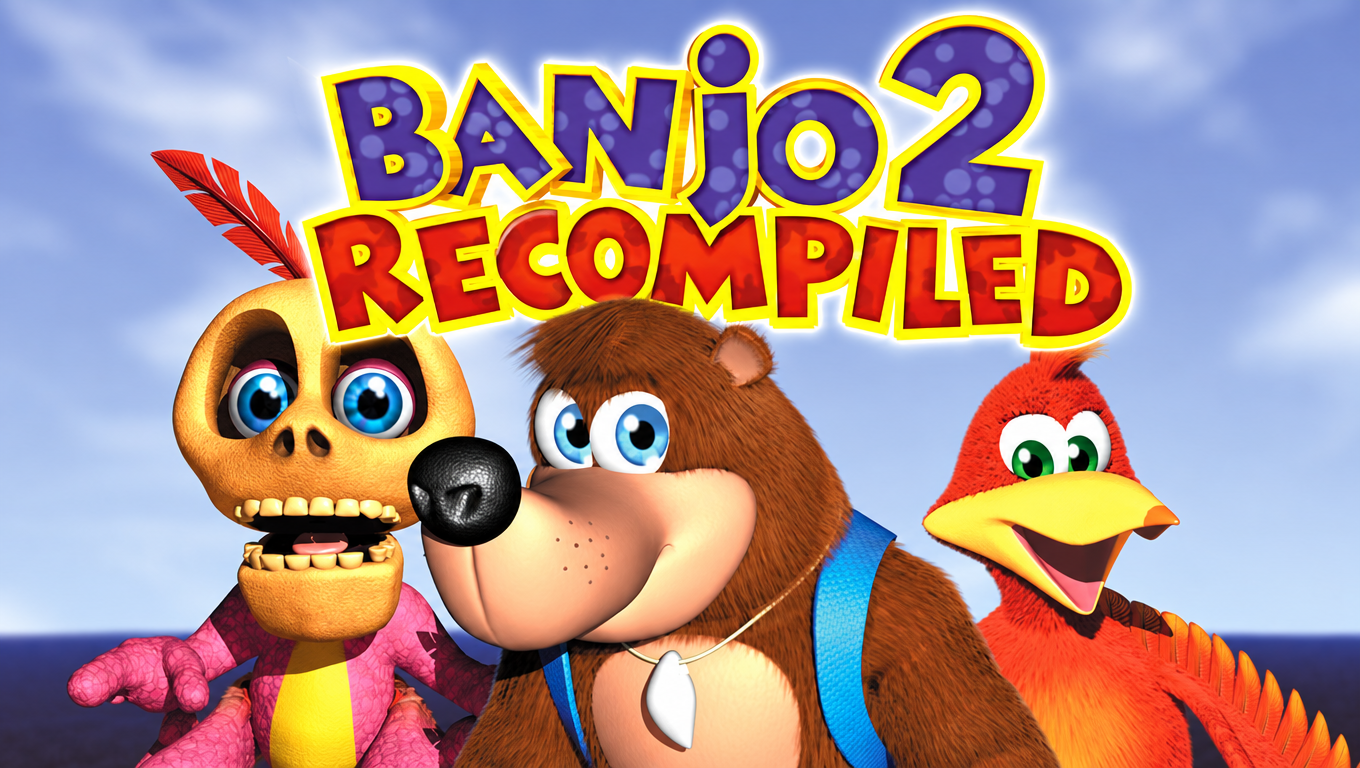
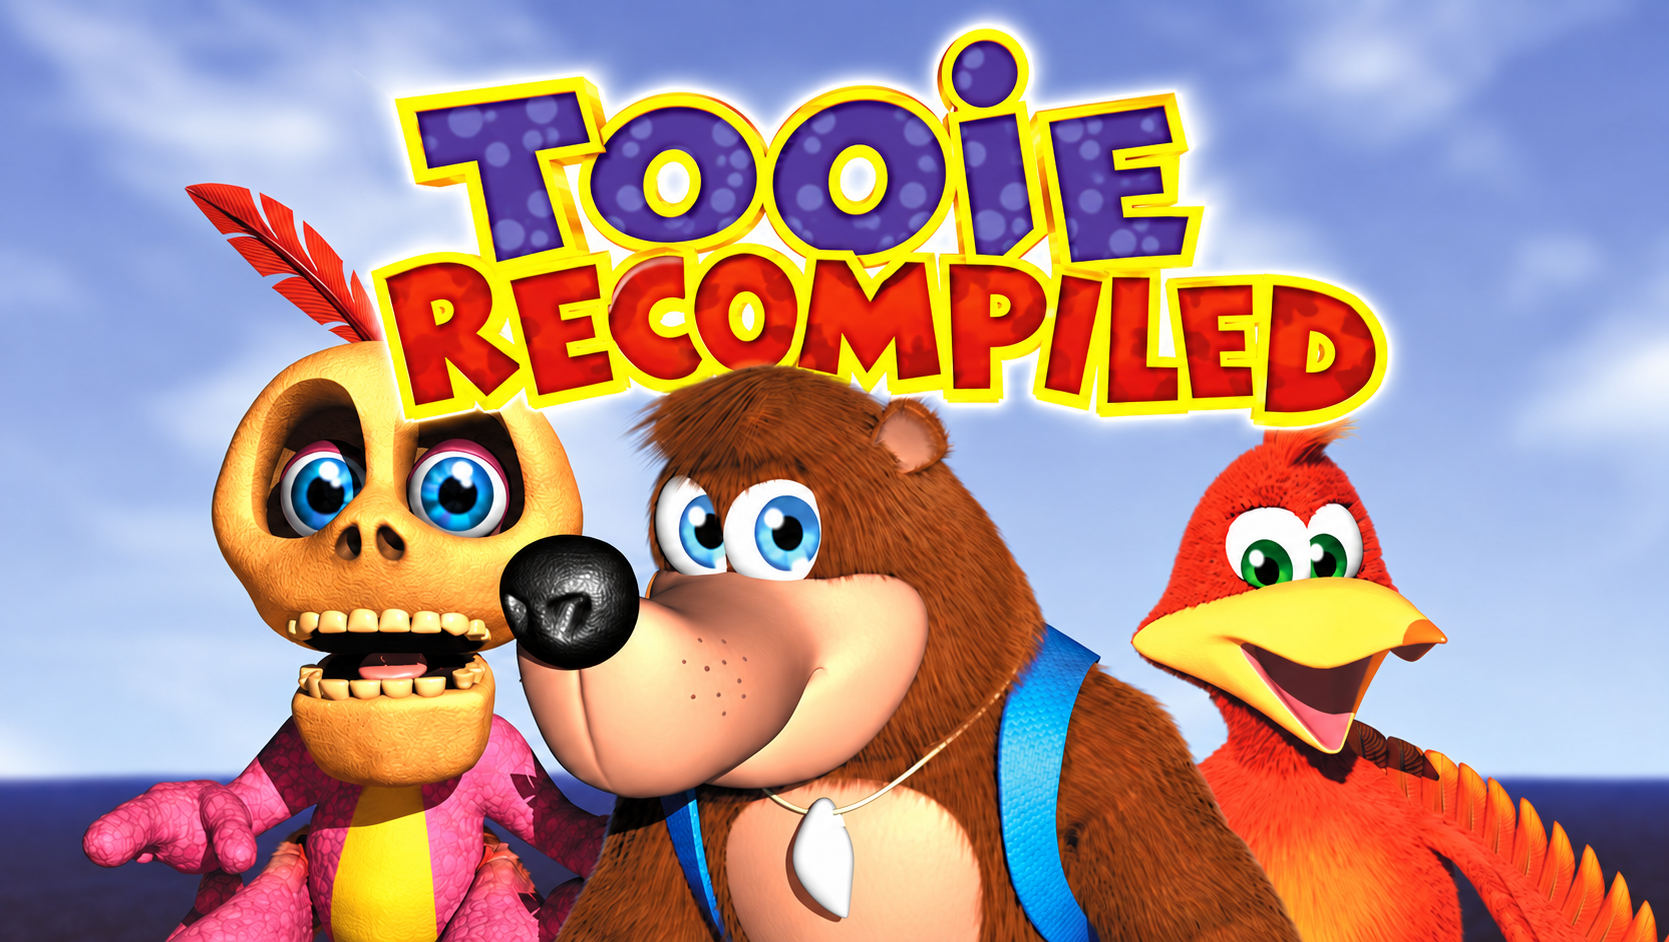
Replace launcher Banjo 2 title with Tooie artwork
Keep the blue/purple spotted lettering and gold outline above the red Recompiled line. Update matching desktop and Android packaged wallpaper assets, and record the generation prompt and integration notes.

diff --git a/docs/launcher-title-artwork-2026-10-15.md b/docs/launcher-title-artwork-2026-10-15.md
@@ -1,0 +1,22 @@
+# TOOIE launcher title artwork
+
+The upper blue/purple title now reads **TOOIE**. The red **RECOMPILED** line remains below it, with the same lettering style and colour scheme. This uses the built-in image-editing tool with the original launcher wallpaper as its reference.
+
+Updated assets:
+
+- `assets/menu.png` (desktop / native build assets)
+- `android/app/src/main/assets/program/assets/menu.png` (Android APK source assets)
+
+Both copies are identical RGB PNGs, **1669 × 942** pixels. The previous image was 1360 × 768. The launcher already uses proportional `cover` scaling, so no layout or menu-button code changes are needed. The full bitmap was generated from the original image; it preserves the composition rather than being a pixel-exact patch outside the lettering.
+
+Source asset Git blob: `61ff9b22d7d72c0fede7186a6a9e714f9a20b6e5` at tested commit `59d3ad0aca6eea957552219b83672fb82fe8a3b2`.
+
[1 lines of base64/hex data omitted]
+
+Android's Activity copies packaged program assets on creation and overwrites the program file. These files do not change the ROM/save directory. The guarded builder copies repository Android assets before filling missing files from its dependency cache, so a cached old wallpaper will not replace this tracked image.
+
+This is a separate artwork commit based on the tested development revision. Include it alongside the rendering fix when preparing the next APK; preserve newer engineering work. No APK build or device operation was performed for this artwork change.
+
+Generation prompt (built-in imagegen):
+
+> Use case: text-localization. Edit target: the attached original 1360 x 768 launcher wallpaper (not a photograph). Make one precise branding edit: replace the entire upper blue/purple title 'BANJO 2' with the exact five-letter word 'TOOIE' (T O O I E), centered above the lower line, fitting the upper title's existing area. Match the original chunky, irregular, playful Banjo-style cartoon lettering, slight varied letter angles, deep blue-purple fill with lighter round spots, thick bright yellow/gold outline, beveled golden side shading and soft white outer glow. Preserve the original title's overall visual weight and footprint. CRITICAL INVARIANTS: keep the red lower word 'RECOMPILED' exactly where it is, with the identical lettering, texture, size, gold outline and appearance. Keep Mumbo, Banjo, Kazooie, their faces and bodies, the feather, cloudy blue background, framing, colors and all pixels outside the upper title edit unchanged. Preserve the original canvas dimensions and layout. No menu buttons, no extra words, no 'BANJO', no numeral 2, no watermarks, no redesign of the rest of the wallpaper. Output a finished replacement wallpaper.
